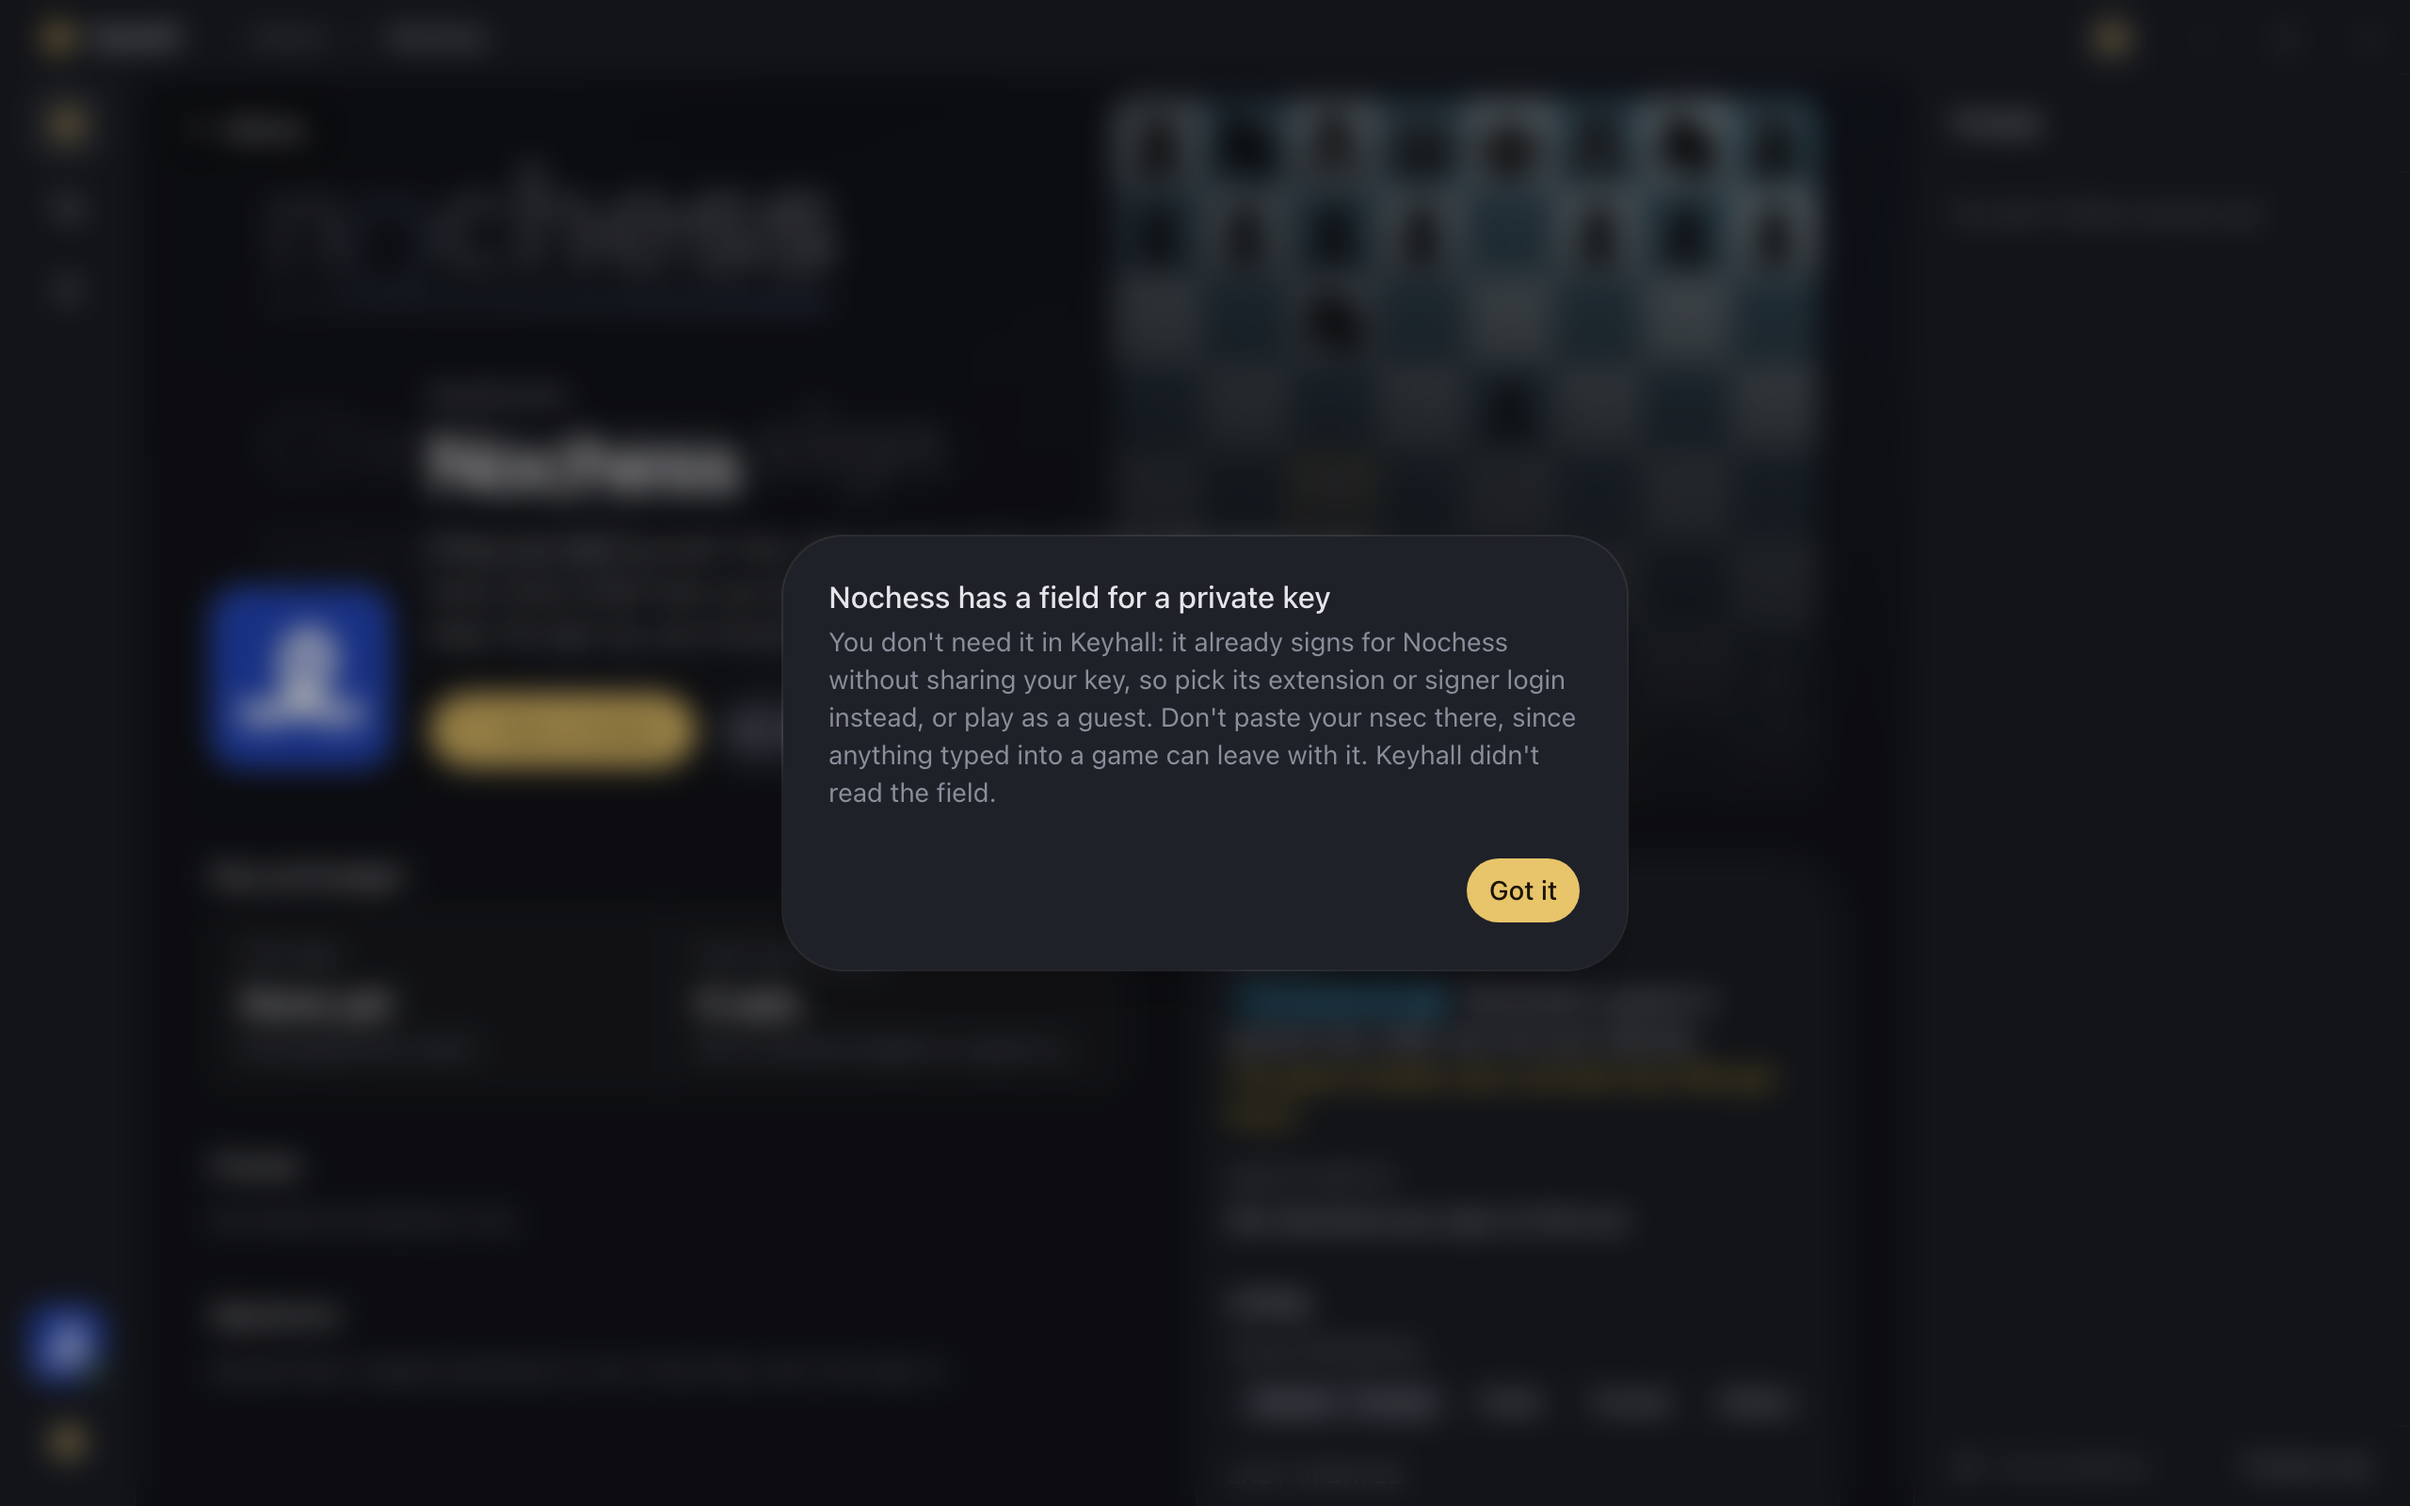
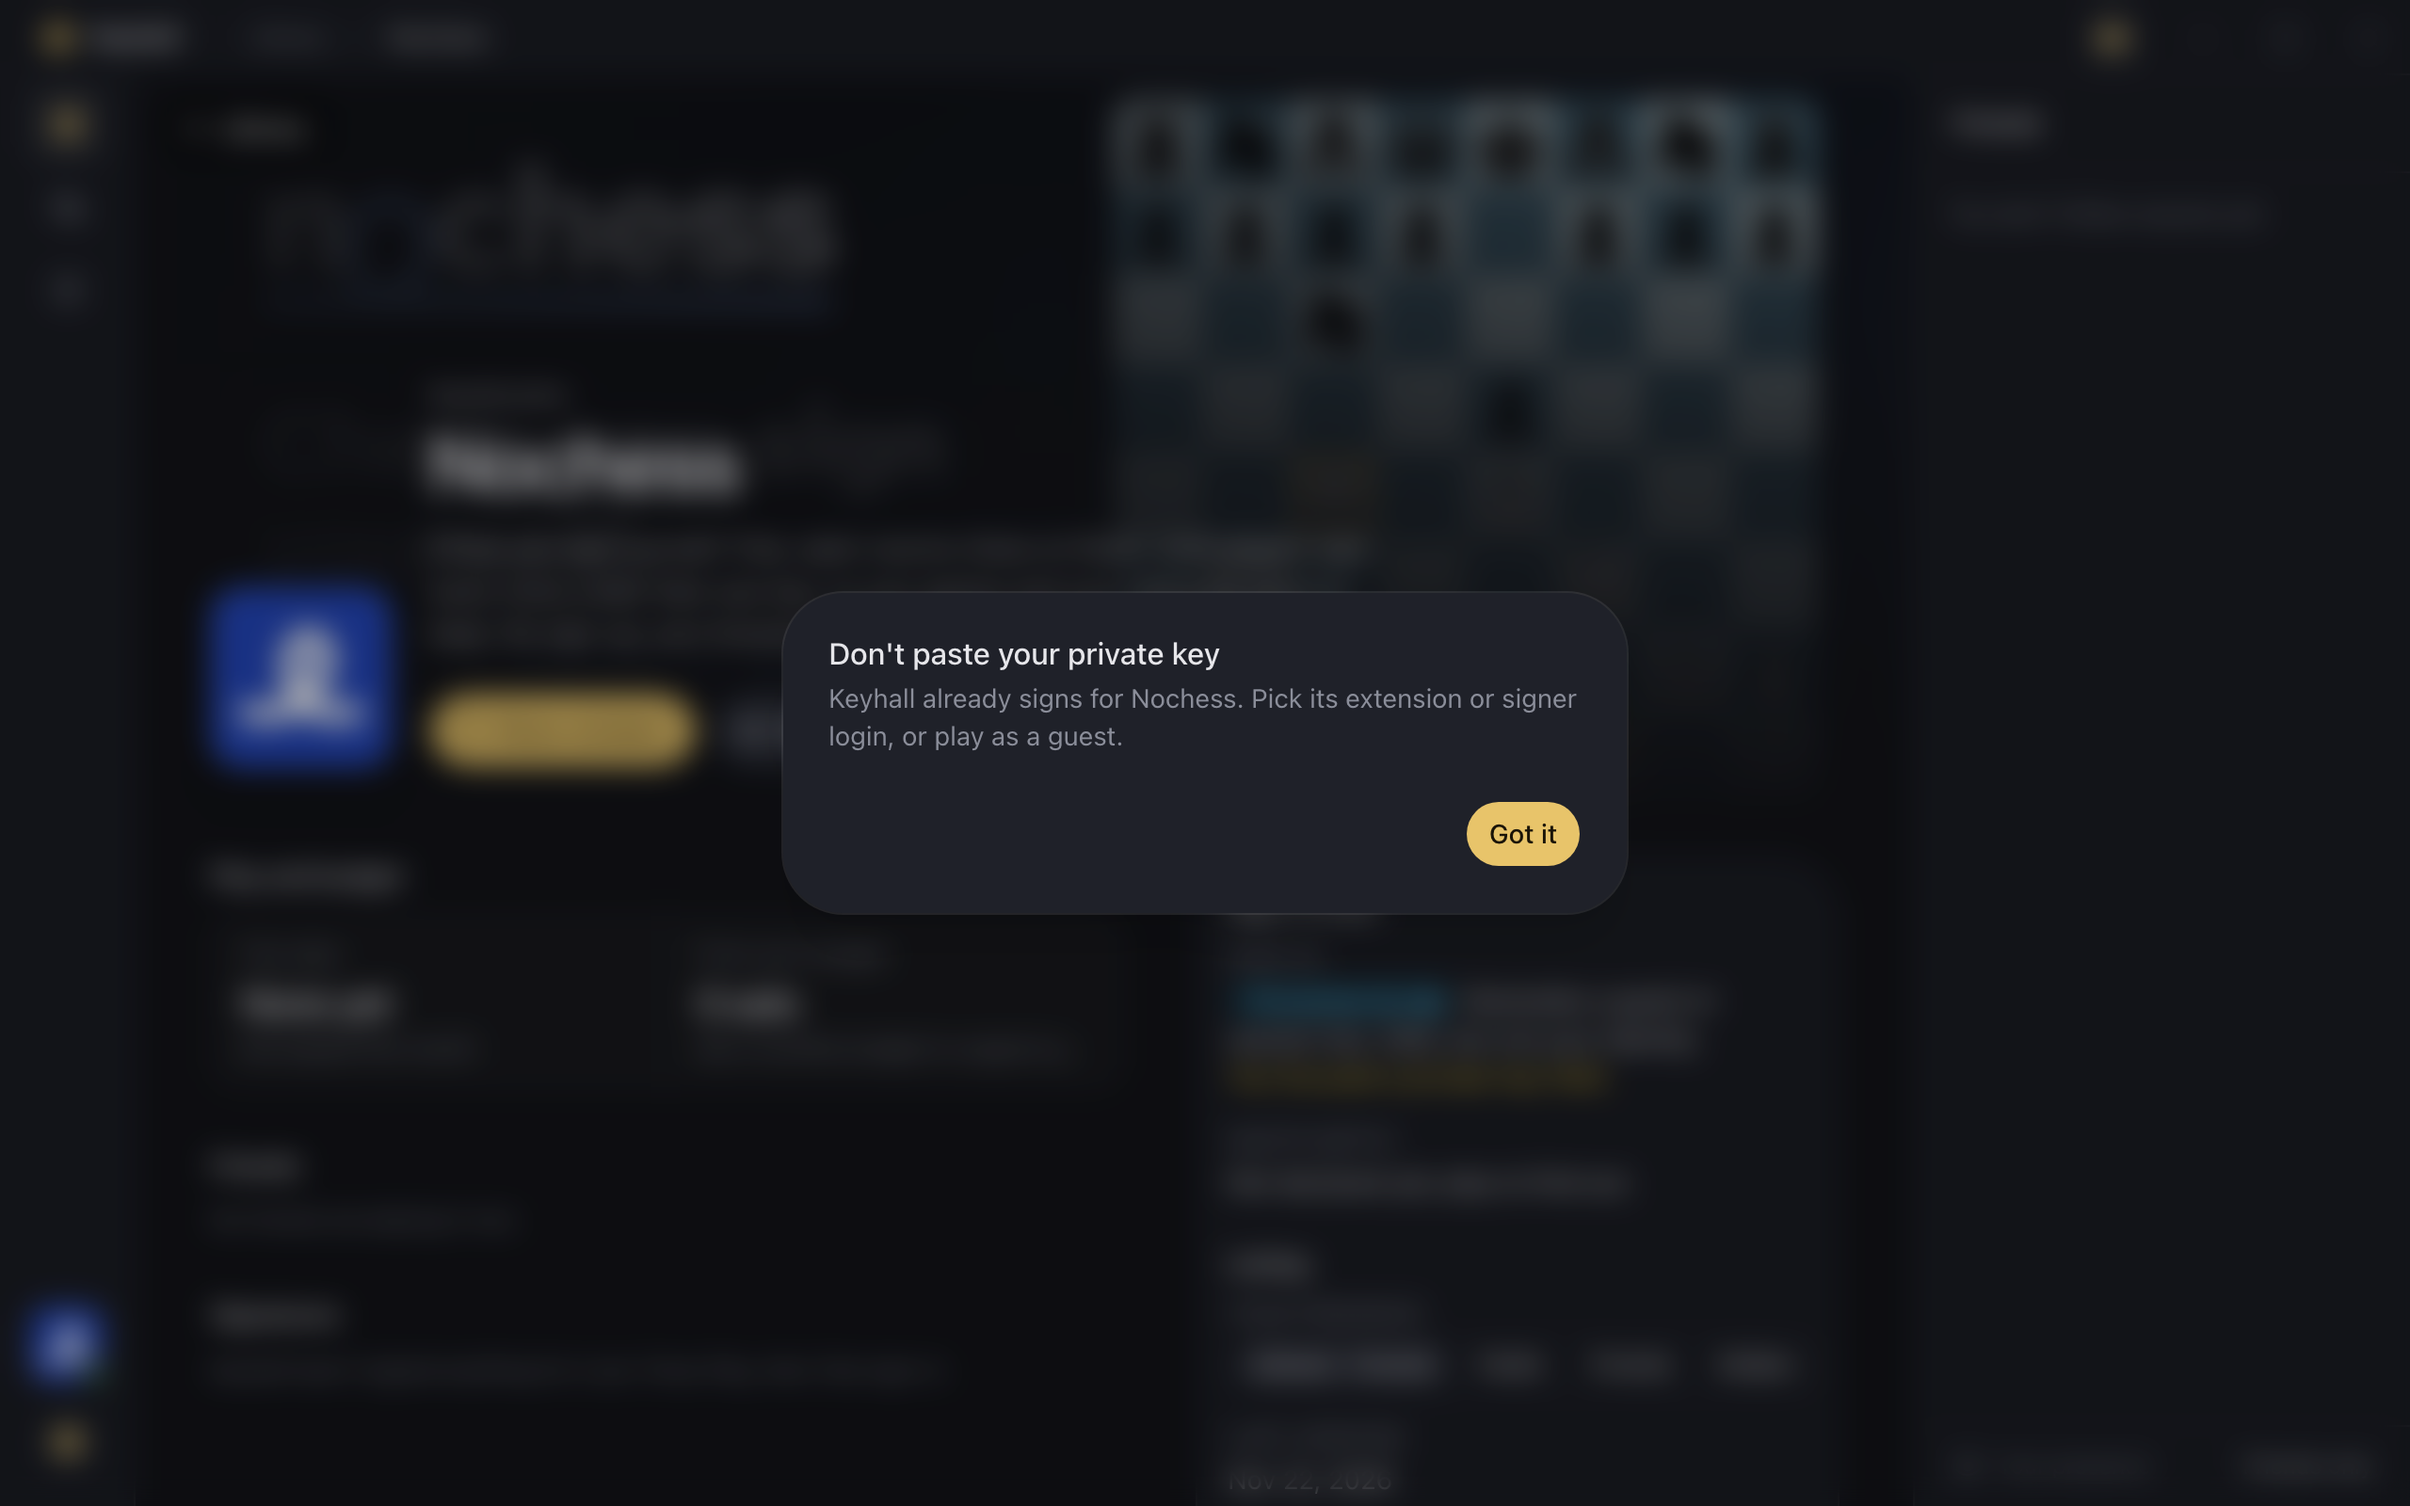
fix: shorten the private-key warning copy to a title and one sentence

Changed region(s): [[0.3438, 0.375, 0.6562, 0.625], [0.4688, 0.5938, 0.5, 0.6562]]

diff --git a/apps/desktop/src/Notice.tsx b/apps/desktop/src/Notice.tsx
@@ -29,15 +29,13 @@ export function Notice({
     return (
       <Window
         kind="notice"
-        title="Keep your key in Keyhall"
+        title="Don't paste your private key"
         subtitle={`${game} has a field for a private key`}
         cascade={cascade}
         onClose={done}
       >
         <p className="text-muted-foreground">
-          You don't need it in Keyhall: it already signs for {game} without sharing your key, so
-          pick its extension or signer login, or play as a guest. Don't paste your nsec there,
-          since anything typed into a game can leave with it.
+          Keyhall already signs for {game}. Pick its extension or signer login, or play as a guest.
         </p>
         <Button onClick={done}>Got it</Button>
       </Window>

diff --git a/apps/desktop/src/GamePage.tsx b/apps/desktop/src/GamePage.tsx
@@ -72,7 +72,7 @@ function Checks<T extends string>({
 const seenSignIn = ({ value }: Claim<string>) =>
   value === "signer"
     ? "The game window saw it sign in through Keyhall."
-    : "The game window saw a private-key field get focus.";
+    : "You focused a private-key field.";
 
 function Block({ title, end, children }: { title: string; end?: ReactNode; children: ReactNode }) {
   return (

diff --git a/README.md b/README.md
@@ -23,7 +23,7 @@ Once installed, Keyhall updates itself: it checks the latest release on launch a
 - Shows a sign-in badge from the listing's `auth` tags (worst case wins), a Nostr depth badge (`multiplayer`, `identity` or `none`) and when the game was last updated.
 - Reads NIP-32 labels (kind 1985) from the curators of your enabled sources. A curator's label wins over the listing's tags and the badge gets a “verified by” seal; where the listing, curators and the game window disagree, the game page says who says what.
 - Opens each web game in its own window with an injected `window.nostr` (`getPublicKey`, `signEvent`). Rust answers both. The first time a game asks to sign an event kind, Keyhall dims the game and asks you to allow or deny it in its overlay, a separate webview the game can't script. The running game sits at the bottom of the navigation rail with its play time, Show and Quit. Ctrl+⌘F toggles full screen in a game window.
-- Warns, in the overlay, when you focus an input in the game's window that looks like it takes a key (an `nsec` or 64-hex placeholder, or a name, id or label such as “private key”). An optional key field you never touch doesn't trigger it. The check reads only those attributes, never what's typed.
+- Warns, in the overlay, when you focus a game input that looks like it takes a private key (judged from its placeholder, name, id or label, never what's typed).
 - Shift+Tab in a game (change it in Settings) opens Keyhall's overlay over the game: the game's play time this session and which friends are playing. Windows in the overlay move by their header, with the pointer or the arrow keys (Ctrl+Tab switches windows), and stay where you leave them. Escape or the hotkey goes back to the game.
 - If your key curates one of your sources, “Label this game” signs a label with it and publishes only when you confirm.
 - Keeps your key in the macOS keychain. Create one or import an nsec; it stays in the Rust process. Sign out (Settings) deletes it.
